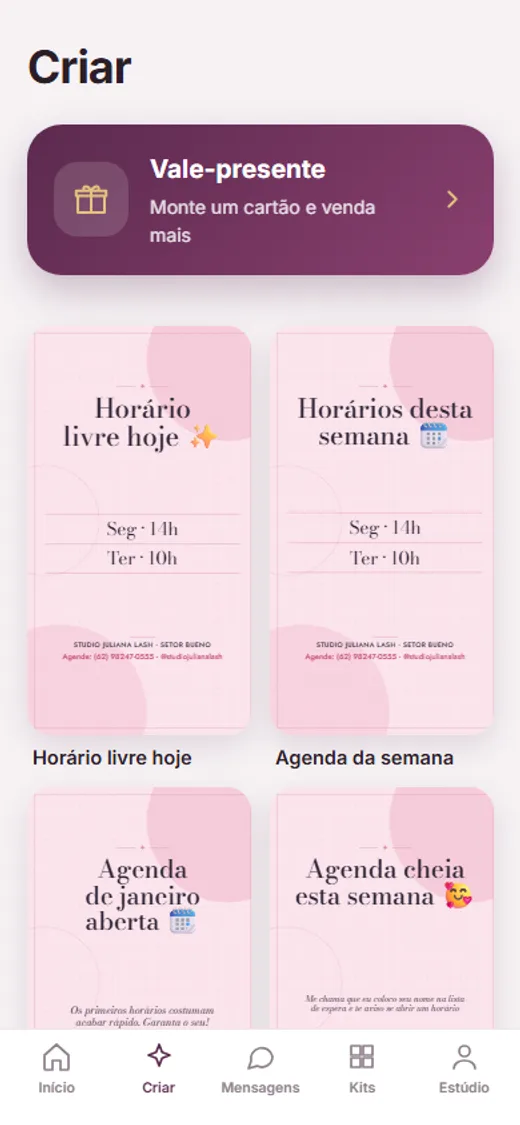
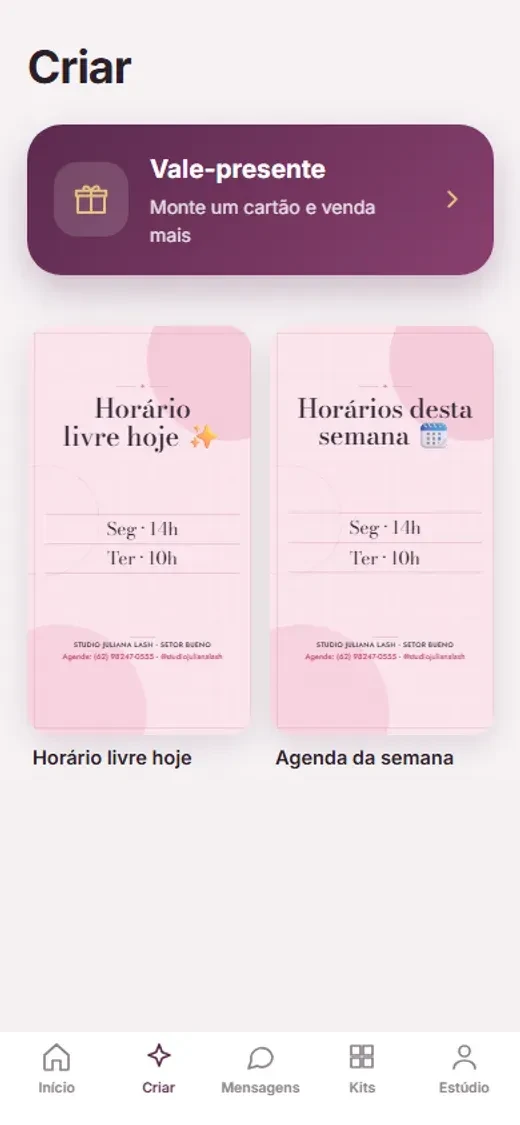
Corrige ajustes finos da /lp e esconde a seção de vídeo por enquanto
Selo "Melhor custo" não escapava mais do card no celular, link "Já sou
assinante" e rodapé ganham cara de link clicável, mockup da galeria
"Criar" mostra conteúdo legível (sem a segunda fileira borrada) com a
barra de abas no rodapé, e o alinhamento dos dois celulares lado a lado
não distorce mais a proporção no celular (faltava align-items no flex).
A seção "Em 3 toques" (com o vídeo) fica escondida até o vídeo existir
de verdade — bastava um fallback de SPA para a checagem de HEAD aceitar
qualquer URL como se o vídeo existisse.

diff --git a/src/marketing/LandingPage.tsx b/src/marketing/LandingPage.tsx
@@ -3,6 +3,9 @@ import { KIWIFY_SUBSCRIPTION_CHECKOUT_URLS } from '../lib/config'
 import { withForwardedParams } from '../lib/checkoutUrl'
 import { trackAddToCart, trackViewContentOnceVisible } from './pixel'
 
+/** Mude para true quando public/lp/demo.mp4 existir de verdade. */
+const SHOW_VIDEO_SECTION = false
+
 const ICONS: Record<string, string> = {
   spark: 'M12 3l2.2 5.8L20 11l-5.8 2.2L12 19l-2.2-5.8L4 11l5.8-2.2z',
   user: 'M12 12a4 4 0 1 0 0-8 4 4 0 0 0 0 8zM4 21c0-4 4-6 8-6s8 2 8 6',
@@ -104,9 +107,10 @@ export function LandingPage() {
   useEffect(() => trackViewContentOnceVisible(plansRef.current), [])
 
   useEffect(() => {
+    if (!SHOW_VIDEO_SECTION) return
     let alive = true
     fetch('/lp/demo.mp4', { method: 'HEAD' })
-      .then((r) => alive && setVideoAvailable(r.ok))
+      .then((r) => alive && setVideoAvailable(r.ok && (r.headers.get('content-type') ?? '').startsWith('video/')))
       .catch(() => {})
     return () => {
       alive = false
@@ -123,7 +127,10 @@ export function LandingPage() {
           <img src="/icone-64.webp" alt="LashBox" width={38} height={38} className="rounded-[22%]" />
           <span className="text-[19px] font-bold">LashBox</span>
         </div>
-        <a href="/entrar" className="text-[15px] font-semibold text-[#5B2A4E] no-underline">
+        <a
+          href="/entrar"
+          className="press rounded-full border border-[#E0CBD7] px-4 py-2 text-[14.5px] font-semibold text-[#5B2A4E] no-underline"
+        >
           Já sou assinante
         </a>
       </div>
@@ -179,49 +186,51 @@ export function LandingPage() {
         </div>
       </div>
 
-      {/* 3 toques */}
-      <div className="mx-auto flex max-w-[1120px] flex-col gap-10 px-5 py-20">
-        <h2 className="text-center text-[clamp(28px,4.4vw,42px)] font-extrabold tracking-[-.03em]">Em 3 toques, pronto para postar</h2>
-        <div className="flex flex-wrap items-center justify-center gap-9">
-          <div className="flex min-w-0 flex-[1_1_360px] flex-col gap-3.5">
-            {STEPS.map((s) => (
-              <div key={s.n} className="flex items-center gap-4 rounded-[26px] bg-[#F6F2F4] p-5">
-                <div className="flex h-[54px] w-[54px] shrink-0 items-center justify-center rounded-[18px] bg-[#5B2A4E]">
-                  <Icon d={s.ic} width={26} height={26} stroke="#fff" />
-                </div>
-                <div>
-                  <div className="text-[19px] font-bold">
-                    <span className="mr-1.5 text-[#8A6A24]">{s.n}.</span>
-                    {s.t}
+      {/* 3 toques — escondido até public/lp/demo.mp4 existir de verdade (ver SHOW_VIDEO_SECTION) */}
+      {SHOW_VIDEO_SECTION && (
+        <div className="mx-auto flex max-w-[1120px] flex-col gap-10 px-5 py-20">
+          <h2 className="text-center text-[clamp(28px,4.4vw,42px)] font-extrabold tracking-[-.03em]">Em 3 toques, pronto para postar</h2>
+          <div className="flex flex-wrap items-center justify-center gap-9">
+            <div className="flex min-w-0 flex-[1_1_360px] flex-col gap-3.5">
+              {STEPS.map((s) => (
+                <div key={s.n} className="flex items-center gap-4 rounded-[26px] bg-[#F6F2F4] p-5">
+                  <div className="flex h-[54px] w-[54px] shrink-0 items-center justify-center rounded-[18px] bg-[#5B2A4E]">
+                    <Icon d={s.ic} width={26} height={26} stroke="#fff" />
                   </div>
-                  <div className="mt-[3px] text-[15.5px] leading-[1.4] text-[#6B5C66]">{s.d}</div>
-                </div>
-              </div>
-            ))}
-          </div>
-          <div
-            className="relative aspect-[9/16] w-[280px] max-w-full flex-[0_1_280px] cursor-pointer overflow-hidden rounded-[28px] bg-[#5B2A4E] shadow-[0_24px_50px_rgba(91,42,78,.28)]"
-            onClick={() => videoAvailable && setPlaying(true)}
-          >
-            {playing && videoAvailable ? (
-              <video src="/lp/demo.mp4" className="block h-full w-full object-cover" autoPlay muted playsInline controls>
-                <track kind="captions" src="/lp/demo.vtt" srcLang="pt" label="Português" />
-              </video>
-            ) : (
-              <>
-                <img src="/lp/screen-editor.webp" className="block h-full w-full object-cover object-top" style={{ filter: 'brightness(.82)' }} alt="Capa do vídeo" />
-                {videoAvailable && (
-                  <div className="absolute top-1/2 left-1/2 flex h-[76px] w-[76px] -translate-x-1/2 -translate-y-1/2 items-center justify-center rounded-full bg-white/92 shadow-[0_8px_24px_rgba(0,0,0,.25)]">
-                    <svg width="30" height="30" viewBox="0 0 24 24" fill="#5B2A4E" style={{ marginLeft: 4 }}>
-                      <path d="M7 4l13 8-13 8z" />
-                    </svg>
+                  <div>
+                    <div className="text-[19px] font-bold">
+                      <span className="mr-1.5 text-[#8A6A24]">{s.n}.</span>
+                      {s.t}
+                    </div>
+                    <div className="mt-[3px] text-[15.5px] leading-[1.4] text-[#6B5C66]">{s.d}</div>
                   </div>
-                )}
-              </>
-            )}
+                </div>
+              ))}
+            </div>
+            <div
+              className="relative aspect-[9/16] w-[280px] max-w-full flex-[0_1_280px] cursor-pointer overflow-hidden rounded-[28px] bg-[#5B2A4E] shadow-[0_24px_50px_rgba(91,42,78,.28)]"
+              onClick={() => videoAvailable && setPlaying(true)}
+            >
+              {playing && videoAvailable ? (
+                <video src="/lp/demo.mp4" className="block h-full w-full object-cover" autoPlay muted playsInline controls>
+                  <track kind="captions" src="/lp/demo.vtt" srcLang="pt" label="Português" />
+                </video>
+              ) : (
+                <>
+                  <img src="/lp/screen-editor.webp" className="block h-full w-full object-cover object-top" style={{ filter: 'brightness(.82)' }} alt="Capa do vídeo" />
+                  {videoAvailable && (
+                    <div className="absolute top-1/2 left-1/2 flex h-[76px] w-[76px] -translate-x-1/2 -translate-y-1/2 items-center justify-center rounded-full bg-white/92 shadow-[0_8px_24px_rgba(0,0,0,.25)]">
+                      <svg width="30" height="30" viewBox="0 0 24 24" fill="#5B2A4E" style={{ marginLeft: 4 }}>
+                        <path d="M7 4l13 8-13 8z" />
+                      </svg>
+                    </div>
+                  )}
+                </>
+              )}
+            </div>
           </div>
         </div>
-      </div>
+      )}
 
       {/* Tudo o que você precisa */}
       <div className="bg-[#F6F2F4]">
@@ -244,7 +253,7 @@ export function LandingPage() {
             <Icon d={ICONS.spark} width={30} height={30} stroke="#E5C17E" strokeWidth={1.6} style={{ flex: 'none' }} />
             <div className="text-[19px] leading-[1.35] font-semibold">E todo dia, uma sugestão de "Para postar hoje", com a arte e a legenda prontas.</div>
           </div>
-          <div className="flex justify-center gap-[clamp(14px,4vw,40px)] pt-2.5">
+          <div className="flex items-start justify-center gap-[clamp(14px,4vw,40px)] pt-2.5">
             <div className="w-[min(44%,240px)] overflow-hidden rounded-[30px] border-[6px] border-[#1d1519] bg-[#F6F2F4] shadow-[0_24px_50px_rgba(42,30,39,.25)]" style={{ aspectRatio: '390/844' }}>
               <img src="/lp/screen-galeria.webp" className="block h-full w-full object-cover object-top" alt="Galeria de modelos" loading="lazy" />
             </div>
@@ -306,7 +315,7 @@ export function LandingPage() {
         <h2 className="text-center text-[clamp(28px,4.4vw,42px)] font-extrabold tracking-[-.03em]">Escolha seu plano</h2>
         <div className="mx-auto grid w-full max-w-[840px] items-stretch gap-[18px]" style={{ gridTemplateColumns: 'repeat(auto-fit,minmax(min(100%,300px),1fr))' }}>
           {/* Anual: 1º no celular (order-1), à direita no desktop (md:order-2) */}
-          <div className="order-1 flex flex-col gap-[18px] rounded-[32px] bg-[#5B2A4E] p-[30px] text-white shadow-[0_24px_50px_rgba(91,42,78,.35)] md:order-2 md:relative">
+          <div className="relative order-1 flex flex-col gap-[18px] rounded-[32px] bg-[#5B2A4E] p-[30px] text-white shadow-[0_24px_50px_rgba(91,42,78,.35)] md:order-2">
             <div className="absolute top-[-14px] right-[22px] rounded-[14px] bg-[#E5C17E] px-3.5 py-1.5 text-[13px] font-bold text-[#3a2a00]">
               Melhor custo
             </div>
@@ -433,20 +442,16 @@ export function LandingPage() {
 
       {/* Rodapé */}
       <div className="mx-auto flex max-w-[1120px] flex-col items-center gap-3.5 px-5 pt-9 pb-10 text-center text-[14px] text-[#6B5C66]">
-        <img src="/icone-64.webp" alt="" width={44} height={44} className="rounded-[11px]" />
-        <div className="flex flex-wrap justify-center gap-x-5 gap-y-2 font-medium">
-          <a href="/entrar" className="no-underline">
-            Já sou assinante · Entrar
-          </a>
-          <a href="/termos" className="no-underline">
-            Termos de uso
-          </a>
-          <a href="/privacidade" className="no-underline">
-            Política de privacidade
-          </a>
+        <div className="flex flex-wrap justify-center gap-x-5 gap-y-2 font-semibold [&_a]:text-[#5B2A4E] [&_a]:no-underline [&_a]:hover:underline">
+          <a href="/entrar">Já sou assinante · Entrar</a>
+          <a href="/termos">Termos de uso</a>
+          <a href="/privacidade">Política de privacidade</a>
         </div>
         <div>
-          Suporte: <a href="mailto:doupsdigital@gmail.com">doupsdigital@gmail.com</a>
+          Suporte:{' '}
+          <a href="mailto:doupsdigital@gmail.com" className="font-semibold text-[#5B2A4E] no-underline hover:underline">
+            doupsdigital@gmail.com
+          </a>
         </div>
         <div className="text-[13px]">LashBox · Um produto Doup - Soluções Digitais</div>
       </div>
